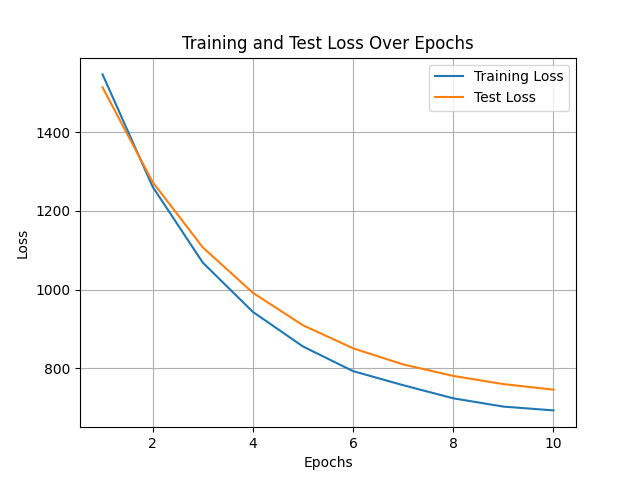
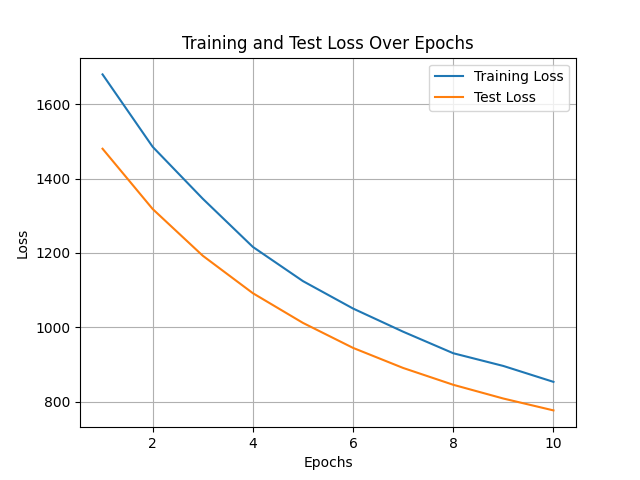
lstm

diff --git a/EMG/models/05_CNN_LSTM/cnn_lstm.py b/EMG/models/05_CNN_LSTM/cnn_lstm.py
@@ -33,34 +33,46 @@ print(f"Labels shape: {y_train_tensor.shape}")
 ##################################################
 
 # model architecture
-class RNN_Model(nn.Module):
+class CNN_LSTM_Model(nn.Module):
     def __init__(self, input_size, hidden_size, output_size, num_layers):
-        super(RNN_Model, self).__init__()
-        self.lstm = nn.LSTM(input_size, hidden_size, num_layers, batch_first=True)
+        super(CNN_LSTM_Model, self).__init__()
+        
+        # CNN layers with padding to maintain sequence length
+        self.conv1 = nn.Conv1d(in_channels=input_size, out_channels=64, kernel_size=3, padding=1)
+        self.conv2 = nn.Conv1d(in_channels=64, out_channels=128, kernel_size=3, padding=1)
+        
+        # LSTM layers
+        self.lstm = nn.LSTM(128, hidden_size, num_layers, batch_first=True)
+
+        # Fully connected layer
         self.fc = nn.Linear(hidden_size, output_size)
 
     def forward(self, x):
-        # LSTM forward pass
+        # x shape: (batch_size, sequence_length, input_size)
+        x = x.permute(0, 2, 1)  # Switch to (batch_size, input_size, sequence_length) for CNN
+        x = torch.relu(self.conv1(x))
+        x = torch.relu(self.conv2(x))
+        
+        x = x.permute(0, 2, 1)  # Switch back to (batch_size, sequence_length, channels) for LSTM
         h_0 = torch.zeros(num_layers, x.size(0), hidden_size).to(device)
         c_0 = torch.zeros(num_layers, x.size(0), hidden_size).to(device)
         out, _ = self.lstm(x, (h_0, c_0))  # LSTM expects inputs of shape (batch_size, seq_len, input_size)
-        #out = out[:, -1, :]  # Get the output from the last time step
         out = self.fc(out)
         return out
 
 # initializing the model
-input_size = X_train_tensor.shape[2]  # Assuming shape is (batch_size, sequence_length, features)
+input_size = X_train_tensor.shape[2]  # Features per timestep
 hidden_size = 128
 num_layers = 2
-output_size = y_train_tensor.shape[2]
-model = RNN_Model(input_size, hidden_size, output_size, num_layers).to(device)
+output_size = y_train_tensor.shape[2]  # Output features per timestep
+model = CNN_LSTM_Model(input_size, hidden_size, output_size, num_layers).to(device)
 
 ##################################################
 ##################################################
 
 # hyperparameters
 num_epochs = 10
-batch_size = 8
+batch_size = 4
 learning_rate = 0.001
 
 # loss function and optimizer
@@ -111,7 +123,7 @@ for epoch in range(num_epochs):
 
     avg_train_loss = total_loss / len(train_loader)
     train_losses.append(avg_train_loss)
-    print(f"Epoch [{epoch+1}/{num_epochs}], Loss: {total_loss/len(train_loader):.4f}")
+    print(f"Epoch [{epoch+1}/{num_epochs}], Loss: {avg_train_loss:.4f}")
 
     # evaluating the model
     model.eval()
@@ -124,7 +136,7 @@ for epoch in range(num_epochs):
 
     avg_test_loss = test_loss / len(test_loader)
     test_losses.append(avg_test_loss)
-    print(f"Test Loss: {test_loss/len(test_loader):.4f}")
+    print(f"Test Loss: {avg_test_loss:.4f}")
 
     epoch_end_time = time.time()
     epoch_elapsed_time = epoch_end_time - epoch_start_time
@@ -147,11 +159,11 @@ plt.ylabel('Loss')
 plt.title('Training and Test Loss Over Epochs')
 plt.legend()
 plt.grid(True)
-plt.savefig('../../plots/RNN_loss_plot.png')
+plt.savefig('../../plots/CNN_LSTM_loss_plot.png')
 plt.show()
 
 # save the model
-model_path = 'RNN_model.pth'
+model_path = 'CNN_LSTM_model.pth'
 torch.save(model.state_dict(), model_path)
 print(f"Model saved: {model_path}")
 
@@ -167,3 +179,4 @@ minutes = int((elapsed_time % 3600) // 60)
 seconds = int(elapsed_time % 60)
 
 print(f"Total time taken: {hours:02}:{minutes:02}:{seconds:02}")
+

diff --git a/README.md b/README.md
@@ -96,9 +96,23 @@ Finger Angle Prediction from EMG Data
 
 #### RNN model:
 
+- Batch size of 4 and epochs set to 10
+- Simple 80/20 train-test split
+- Mean Squared Error (MSE) used as the loss function
+- AdamW optimizer with a learning rate of 0.001
+- RNN architecture with LSTM layers, hidden size of 128, and 2 layers
+- Sequential EMG data is padded to match sequence lengths
 
 
 #### CNN-LSTM:
+
+- Batch size of 4 and epochs set to 10
+- Simple 80/20 train-test split
+- Mean Squared Error (MSE) used as the loss function
+- AdamW optimizer with a learning rate of 0.001
+- CNN-LSTM architecture with two 1D convolutional layers followed by LSTM layers
+- Hidden size of 128 and 2 LSTM layers
+- Input data assumed to be 3D (batch_size, sequence_length, features)
 
 
 <p align="right">(<a href="#readme-top">Back Top</a>)</p>
